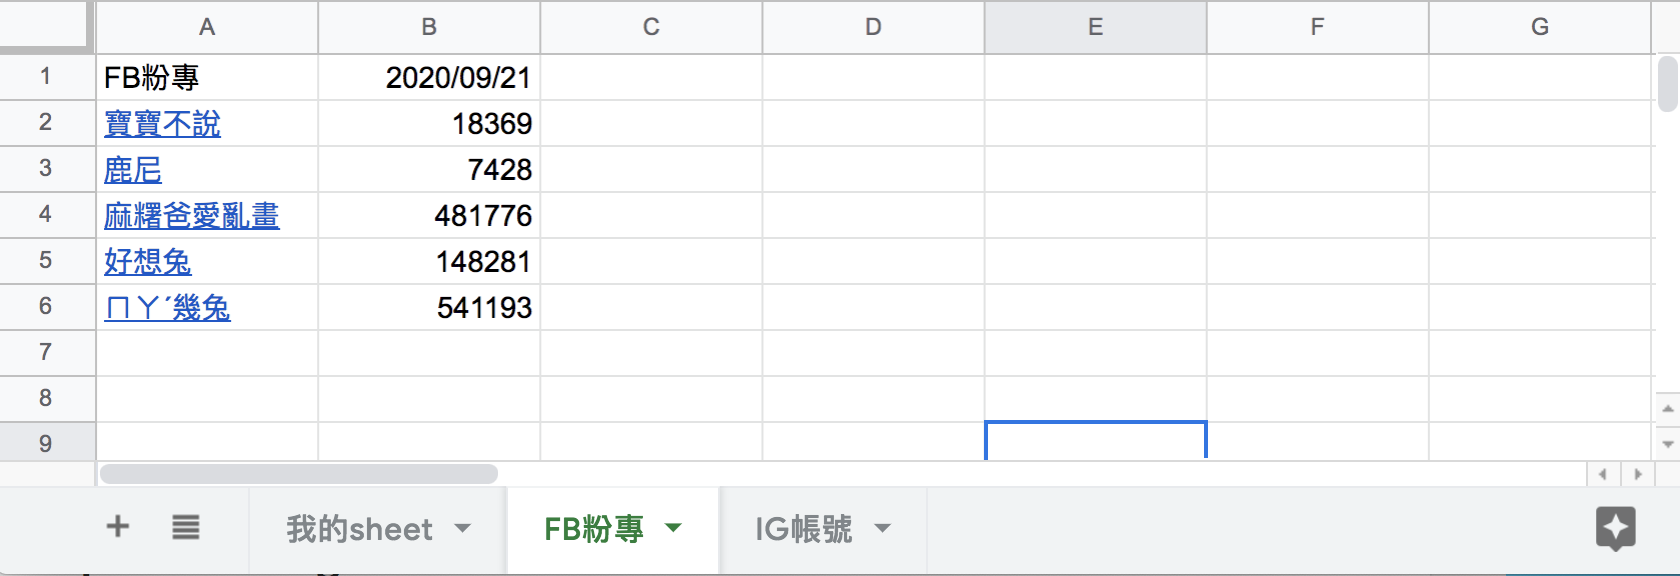
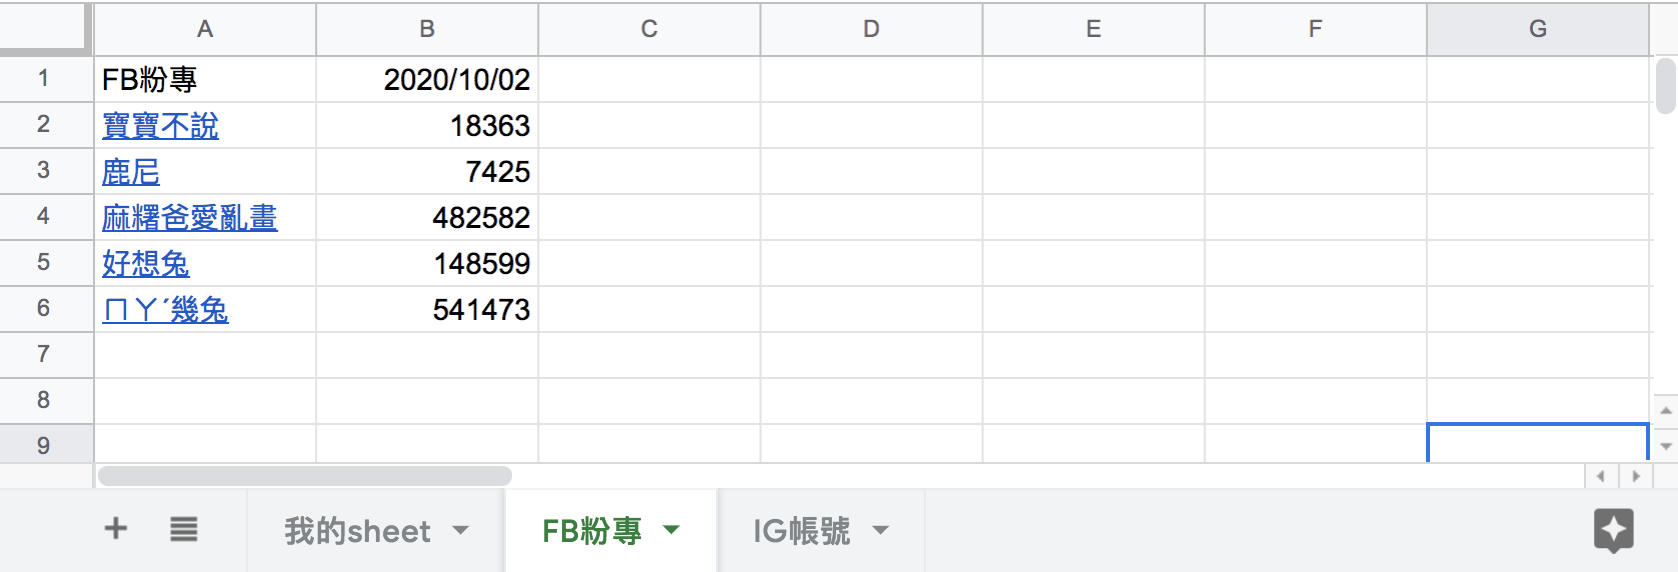
移除不必要函式，在Google sheet成功更新時附上網址

diff --git a/day21/tools/google_sheets/index.js b/day21/tools/google_sheets/index.js
@@ -145,12 +145,12 @@ async function getFBIGSheet (auth) {// 取得FB粉專、IG帳號的Sheet資訊
 }
 
 async function writeSheet (title, result_array, auth) {
-  // 取得線上的title_array
+  // 取得線上第一欄的粉專名稱
   let online_title_array = await readTitle(title, auth)
-  // 如果json檔有新增的title就加入到online_title_array
+  // 如果json檔有新增的粉專就補到最後面
   result_array.forEach(fanpage => {
-    if (!online_title_array.includes(fanpage.title)) {
-      online_title_array.push(fanpage.title)
+    if (!online_title_array.includes([`=HYPERLINK("${fanpage.url}","${fanpage.title}")`])) {
+      online_title_array.push([`=HYPERLINK("${fanpage.url}","${fanpage.title}")`])
     }
   });
 
@@ -296,7 +296,7 @@ async function updateGoogleSheets (ig_result_array, fb_result_array) {
         await writeSheet(sheet.title, sheet.id, ig_result_array, auth)
       }
     }
-    console.log('成功更新Google Sheets');
+    console.log(`成功更新Google Sheets：https://docs.google.com/spreadsheets/d/${process.env.SPREADSHEET_ID}`);
   } catch (err) {
     console.error('更新Google Sheets失敗');
     console.error(err);

diff --git a/day20/tools/google_sheets/index.js b/day20/tools/google_sheets/index.js
@@ -237,7 +237,7 @@ async function updateGoogleSheets (ig_result_array, fb_result_array) {
     // 寫入各自的Sheet
     await writeSheet('FB粉專', fb_result_array, auth)
     await writeSheet('IG帳號', ig_result_array, auth)
-    console.log('成功更新Google Sheets');
+    console.log(`成功更新Google Sheets：https://docs.google.com/spreadsheets/d/${process.env.SPREADSHEET_ID}`);
   } catch (err) {
     console.error('更新Google Sheets失敗');
     console.error(err);

diff --git a/day20/README.md b/day20/README.md
@@ -103,6 +103,7 @@ async function crawler () {
 ### 2.2 改寫 `updateGoogleSheets` 函式來接收並處理爬蟲資料
 * 接受爬蟲回傳的資料：ig_result_array, fb_result_array
 * 新增函式 `writeSheet` 將收到的爬蟲資料寫入對應的 Sheet
+* 最後印出Google Sheets的網址方便查看
 ```js
 async function updateGoogleSheets (ig_result_array, fb_result_array) {
     try {
@@ -114,7 +115,7 @@ async function updateGoogleSheets (ig_result_array, fb_result_array) {
         // 將爬蟲資料寫入各自的Sheet
         await writeSheet('FB粉專', fb_result_array, auth)
         await writeSheet('IG帳號', ig_result_array, auth)
-        console.log('成功更新Google Sheets');
+        console.log(`成功更新Google Sheets：https://docs.google.com/spreadsheets/d/${process.env.SPREADSHEET_ID}`);
     } catch (err) {
         console.error('更新Google Sheets失敗');
         console.error(err);
